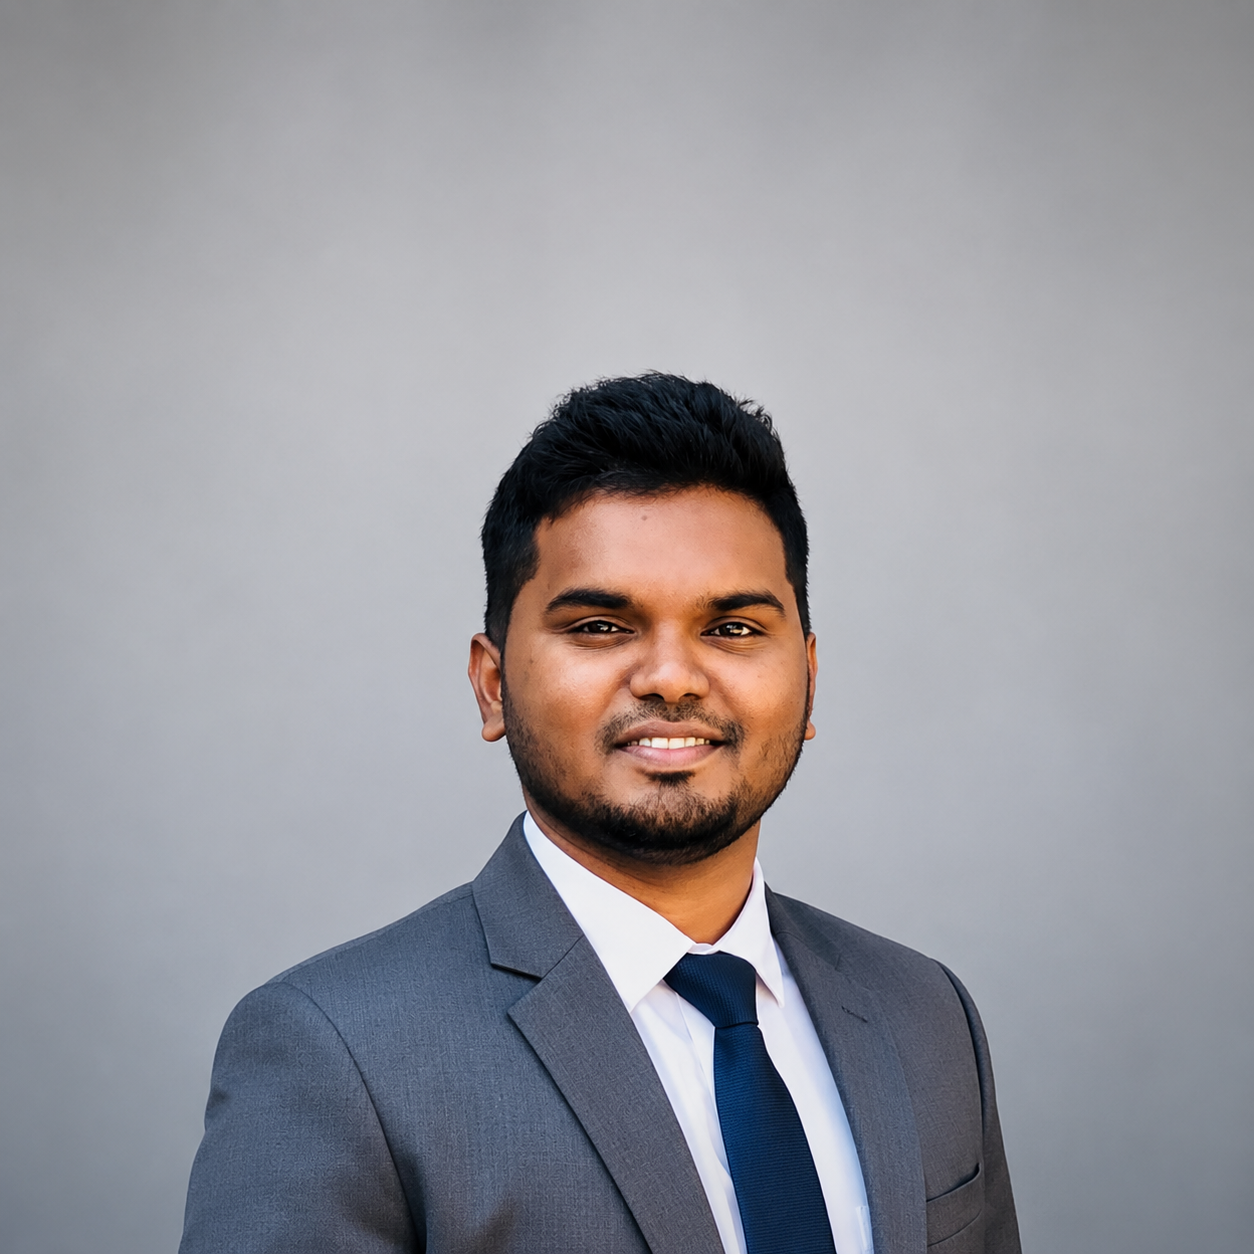
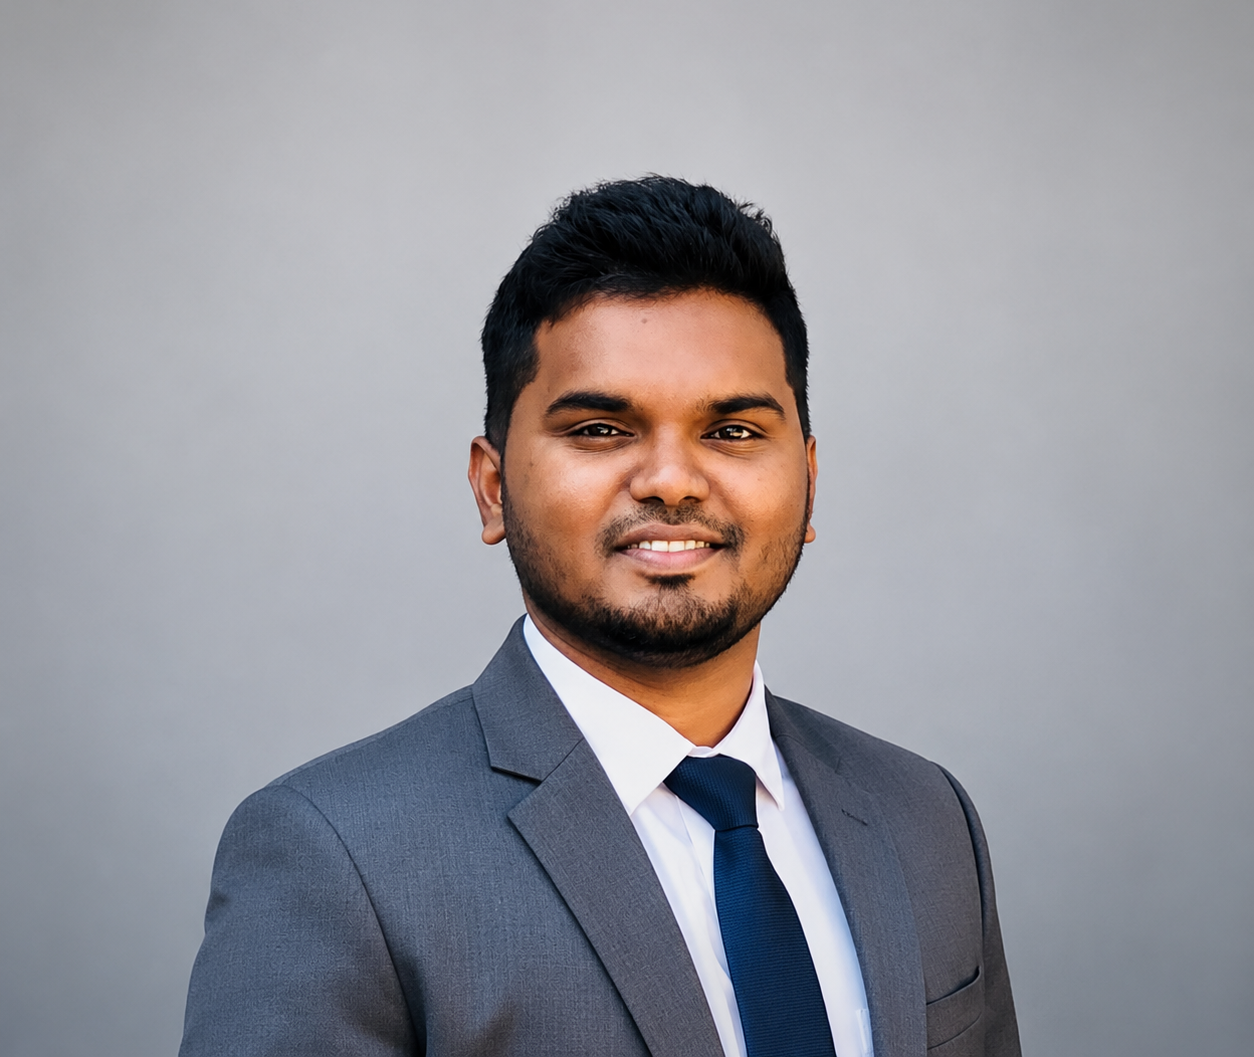
Updated publications list

diff --git a/index.html b/index.html
@@ -31,7 +31,7 @@
     <div class="hero-text">
       <h1>Guhan Seshadri, PhD</h1>
       <p class="subtitle">
-        Postdoctoral Researcher · Neurological Institute · Cleveland Clinic
+        Postdoctoral Fellow · Neurological Institute · Cleveland Clinic
       </p>
     </div>
   </div>
@@ -41,7 +41,7 @@
   <h2>About Me</h2>
 
   <p>
-  I am a Postdoctoral Researcher at the Neurological Institute, Cleveland Clinic.
+  I am a Postdoctoral Fellow at the Neurological Institute, Cleveland Clinic.
   My training is in biomedical engineering and computational signal analysis,
   with specialization in electrophysiology, brain network modeling, and machine learning.
   </p>
@@ -83,6 +83,13 @@
   <h2>Selected Publications</h2>
 
   <ul class="pub-list">
+    <li>
+      Seshadri NP, Guhan, Himanshu Kumar, Neha Sara John, Andreas V. Alexopoulos, Richard C. Burgess, Hiroatsu Murakami, and Balu Krishnan.
+      “Presurgical magnetoencephalography‐derived network control metrics distinguish successful hippocampal resection vs sparing in temporal lobe epilepsy.”
+      <em>Epilepsia</em>,
+      31 (2026): 1–14.
+      <a href="https://doi.org/10.1002/epi.70320" target="_blank">DOI</a>
+    </li>
 
     <li>
       Seshadri, N.P. Guhan, Bikesh Kumar Singh, and Ram Bilas Pachori.